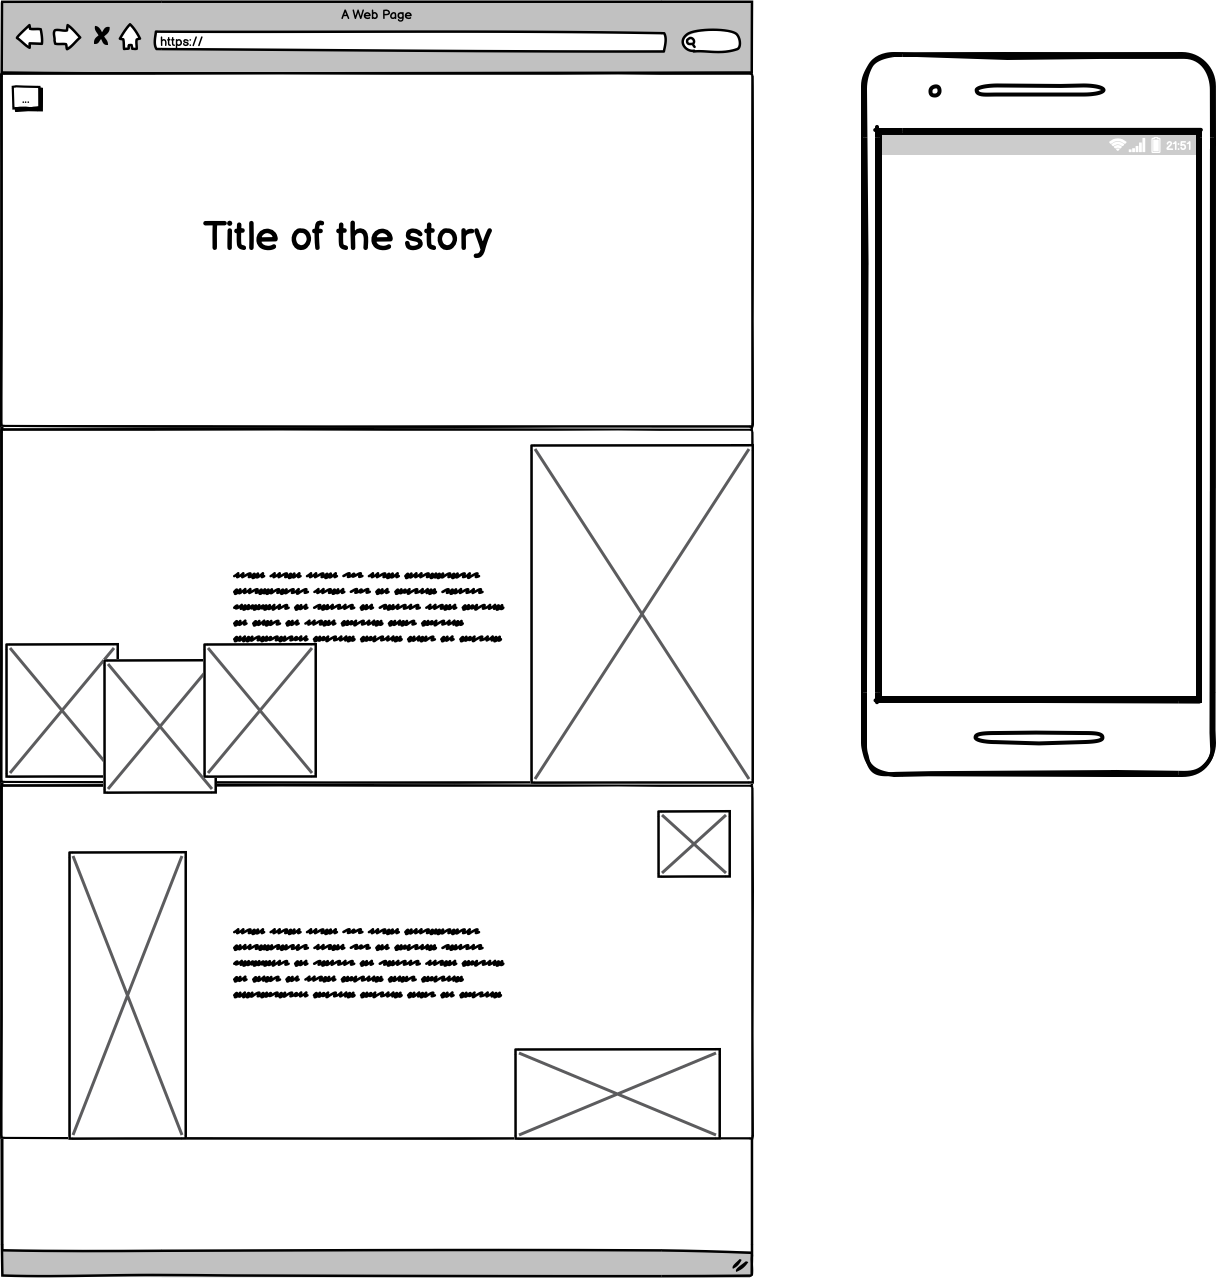
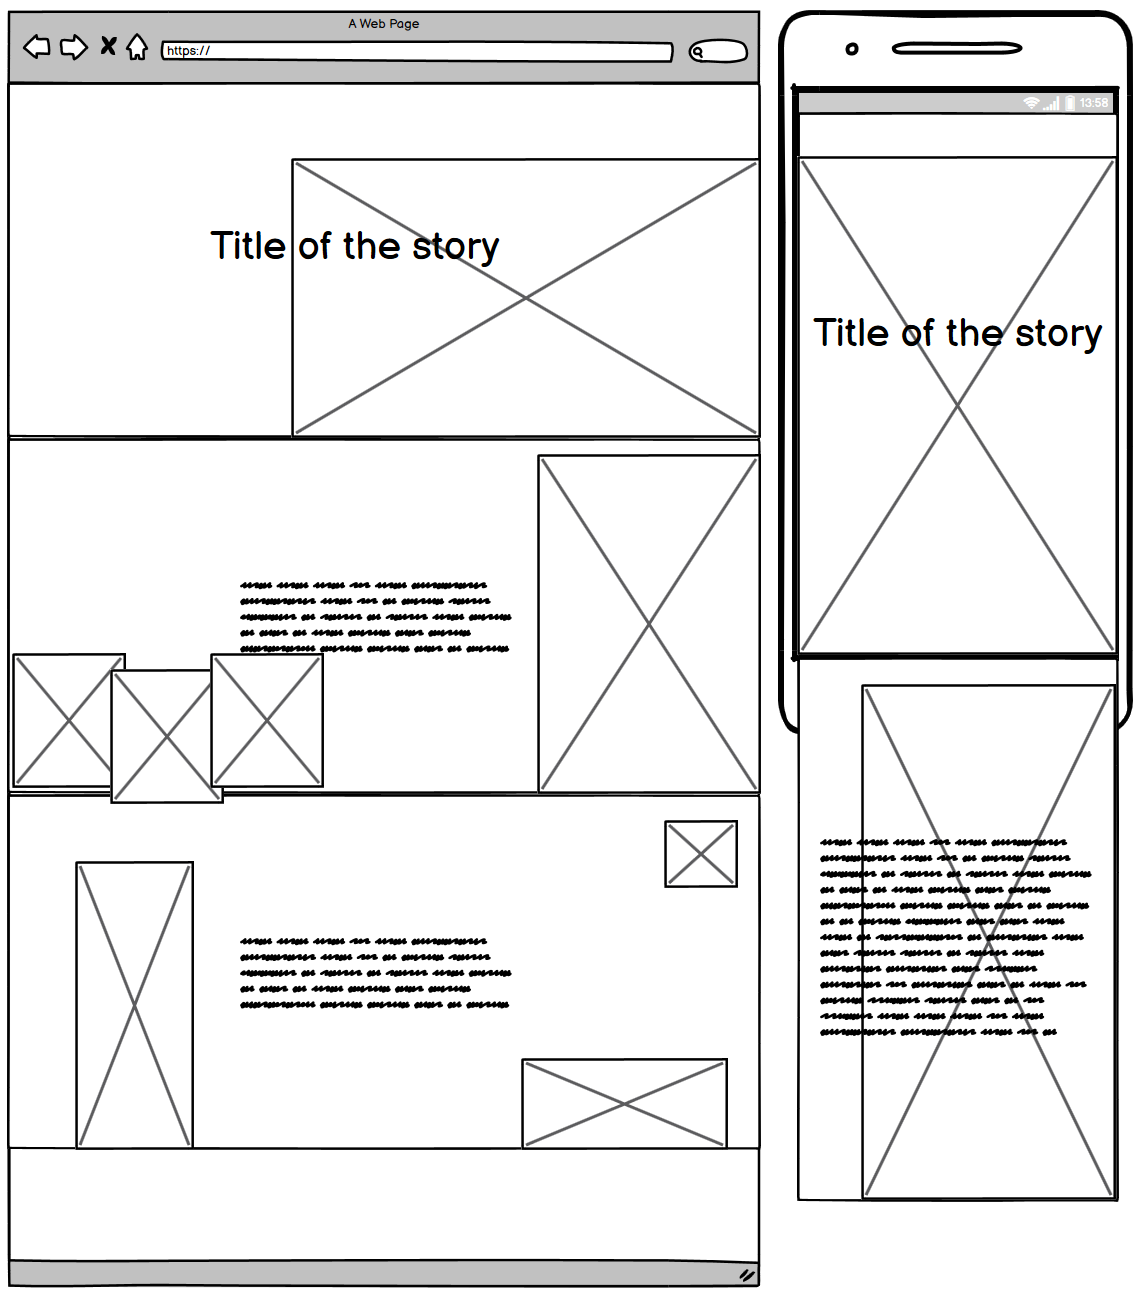
#87_readme_tweaks (#94)
* Update wireframes

* Tidy up Readme, replace images with relative path

diff --git a/README.md b/README.md
@@ -6,7 +6,7 @@ This project was built for the Code Institute Hackathon in October 2021 by the H
 
 Please [click here](https://adowlin.github.io/spookathon-team7/) to view the deployed site.
 
-### Index
+## Index
 
 - [Ux](#ux)
 - [Features](#features)
@@ -21,14 +21,13 @@ Please [click here](https://adowlin.github.io/spookathon-team7/) to view the dep
  
 ### Aims
 
-**Site owner's goal**
+**Site owner's goal**  
 Provide a fun experience for users that visit the site and be able to follow the story smoothly.
 
-**External user’s goal** 
+**External user’s goal**  
 Interact with the HTML Halloween story and be taken through an immersive journey.
 
- 
-#### User Stories
+### User Stories
 
 As a user I want to be able to: Interact with the HTML Halloween story and be taken through an immersive journey.
 
@@ -38,8 +37,8 @@ As a user I want to be able to: Interact with the HTML Halloween story and be ta
 
 Wireframes were created using [Balsamiq](https://balsamiq.com/)
 
-Please find the wireframes for the project below. 
-![index_html_layout](https://user-images.githubusercontent.com/65243328/137497378-7265d2f1-ab8d-4646-9661-6e61e24d607a.png)
+Wireframes for the project below.  
+![index_html_layout](readme-assets/index_html_layout.png)
 
 ### Surface
 
@@ -47,7 +46,7 @@ Please find the wireframes for the project below.
 
 The following colours have been used in the creation of the site.
 
-![colour pallette](https://github.com/adowlin/spookathon-team7/blob/main/readme-assets/colorpalette.png?raw=true)
+![colour pallette](readme-assets/colorpalette.png)
 
 - #0B0E3A - Navy Blue - as the main background colour and to depict the night sky
 
@@ -59,37 +58,44 @@ The following colours have been used in the creation of the site.
 
 **Typography**
 
-![MrMonstar](https://user-images.githubusercontent.com/65243328/137498123-76287d9b-571a-4a70-acef-b2be90e31293.png)
+![MrMonstar](readme-assets/mrmonstar-font-preview.png)
 
-![Counter Attack](https://user-images.githubusercontent.com/65243328/137498135-50eb3006-ade2-41e4-8a69-93d4956c41e9.png)
+![Counter Attack](readme-assets/counterattack-font-preview.png)
 
 **Heading text**
 
-![halloween night wrn](https://user-images.githubusercontent.com/65243328/137498993-02ee9ba7-51ca-440e-982d-817c14ec6d2a.JPG)
+![halloween night wrn](readme-assets/heading-text-preview.jpg)
 
 **Body text**
 
-![halloween 2](https://user-images.githubusercontent.com/65243328/137626336-0bbeb7e3-6067-4f48-8da3-4712fee7640e.JPG)
+![halloween 2](readme-assets/body-text-preview.jpg)
 
 **Imagery**
 
-![halloween night wrn2](https://user-images.githubusercontent.com/65243328/137626218-495cdf0b-4775-47ce-89b2-744960b87c51.JPG)
+![halloween night wrn2](readme-assets/imagery-preview.jpg)
 
 ---
 ## Features
 
 ### Current features
 
-* Opening page with bats flying across the title page with fog in background.
-* Castle foreground on 1st page with Bats on screen and spooky fog lights for castle.
-* Witch on a broomstick with cat and big moon on the 2nd page.
-* Skeleton adorned in flowers and gravestones in the background on the 3rd page.
-
-
-## Technologies 
-
-* [Inscape](https://inkscape.org/)
-* [adobe spark](https://spark.adobe.com/sp/)
+* Title page:
+    * Bats flying across title page with fog in background.
+    * Interactive Owl
+* Page one:
+    * Castle foreground with bats on screen and spooky fog lights for castle.
+    * Corn rises up on scroll.
+    * Interactive witch
+* Page two:
+    * Witch on a broomstick with cat and big moon on the 2nd page.
+* Page three:
+    * Skeleton adorned in flowers
+    * Gravestones rise from the ground on scroll
+* Page four:
+    * Chains imagery
+    * Interactive monster
+* About Us page:
+    * Links to GitHub pages for each of the contributors.
 
 ## Languages
 
@@ -105,13 +111,13 @@ The following colours have been used in the creation of the site.
 
 * [Git](https://git-scm.com/) - Distributed Version Control tool to store versions of files and track changes.
 * [GitPod](https://gitpod.io/) - Workspace IDE.
-* [GitHub](https://github.com/) - Hosting service used to manage my Git repositories.
+* [GitHub](https://github.com/) - Hosting service used to manage the Git repositories.
 
 **Resources**
 
 * [Balsamiq](https://balsamiq.com/) was used to create the site's wireframes.
 * [Font Awesome](https://fontawesome.com/) was used for the [arrow down](https://fontawesome.com/v5.15/icons/angle-double-down?style=solid) and [arrow up](https://fontawesome.com/v5.15/icons/angle-double-up?style=solid) icons on the site's buttons.
-* [Inscape](https://inkscape.org/) a free and open-source vector graphics editor used to create vector images.
+* [Inkscape](https://inkscape.org/) a free and open-source vector graphics editor used to create vector images.
 * [Adobe Spark](https://spark.adobe.com/sp/)
 * [Adobe Illustrator](https://www.adobe.com/ie/products/illustrator.html) was used to edit some of the artwork.
 * [Canva](https://www.canva.com/) was used to create some of the artwork.
@@ -205,7 +211,6 @@ To run this project using a local IDE, for example VSCode, follow these steps to
 6. Your local clone will be created
 
 ## Credits
-
 ### Copy
 
 ![Halloween-poem](https://user-images.githubusercontent.com/65243328/137500980-6c598948-cdaa-4b32-9ffe-fe75ee611294.jpg)
@@ -213,6 +218,7 @@ To run this project using a local IDE, for example VSCode, follow these steps to
 ### Code
 
 Fog overlay on all pages adapted from: https://github.com/WebDevSHORTS/Fog-Overlay-Animation
+[CSS Grid Generator](https://cssgrid-generator.netlify.app/)
 
 ### Imagery
 
